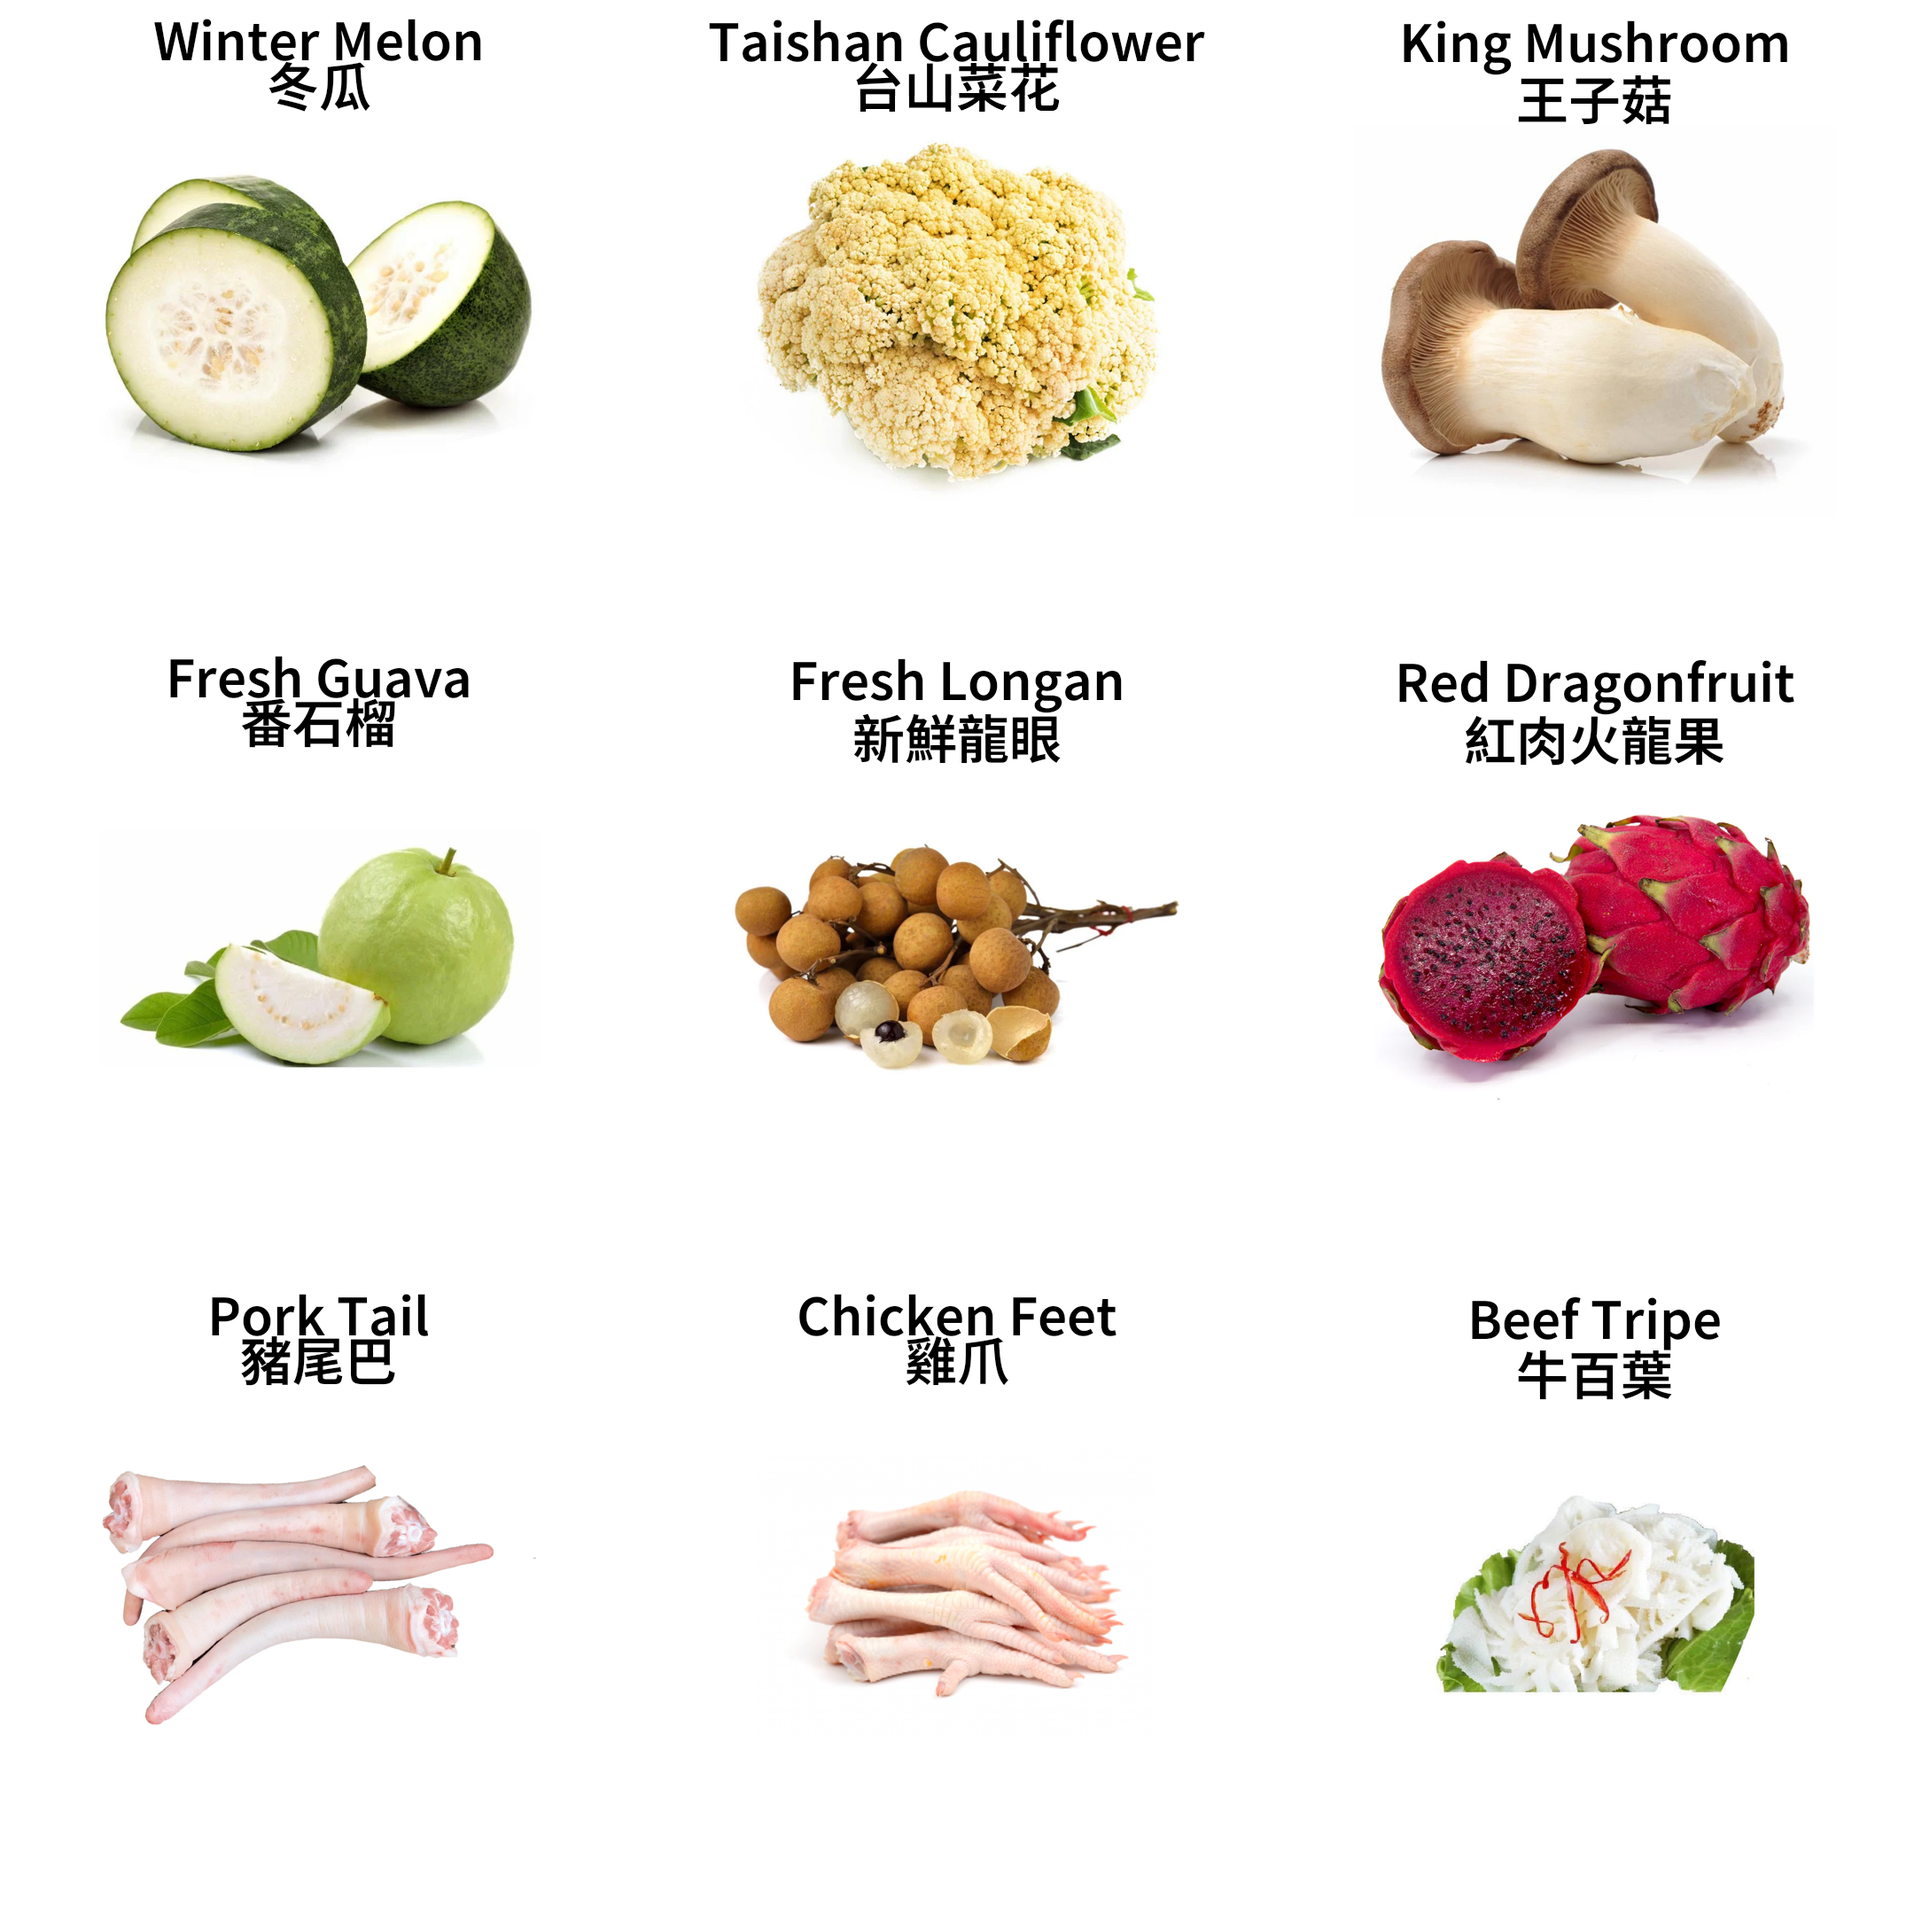
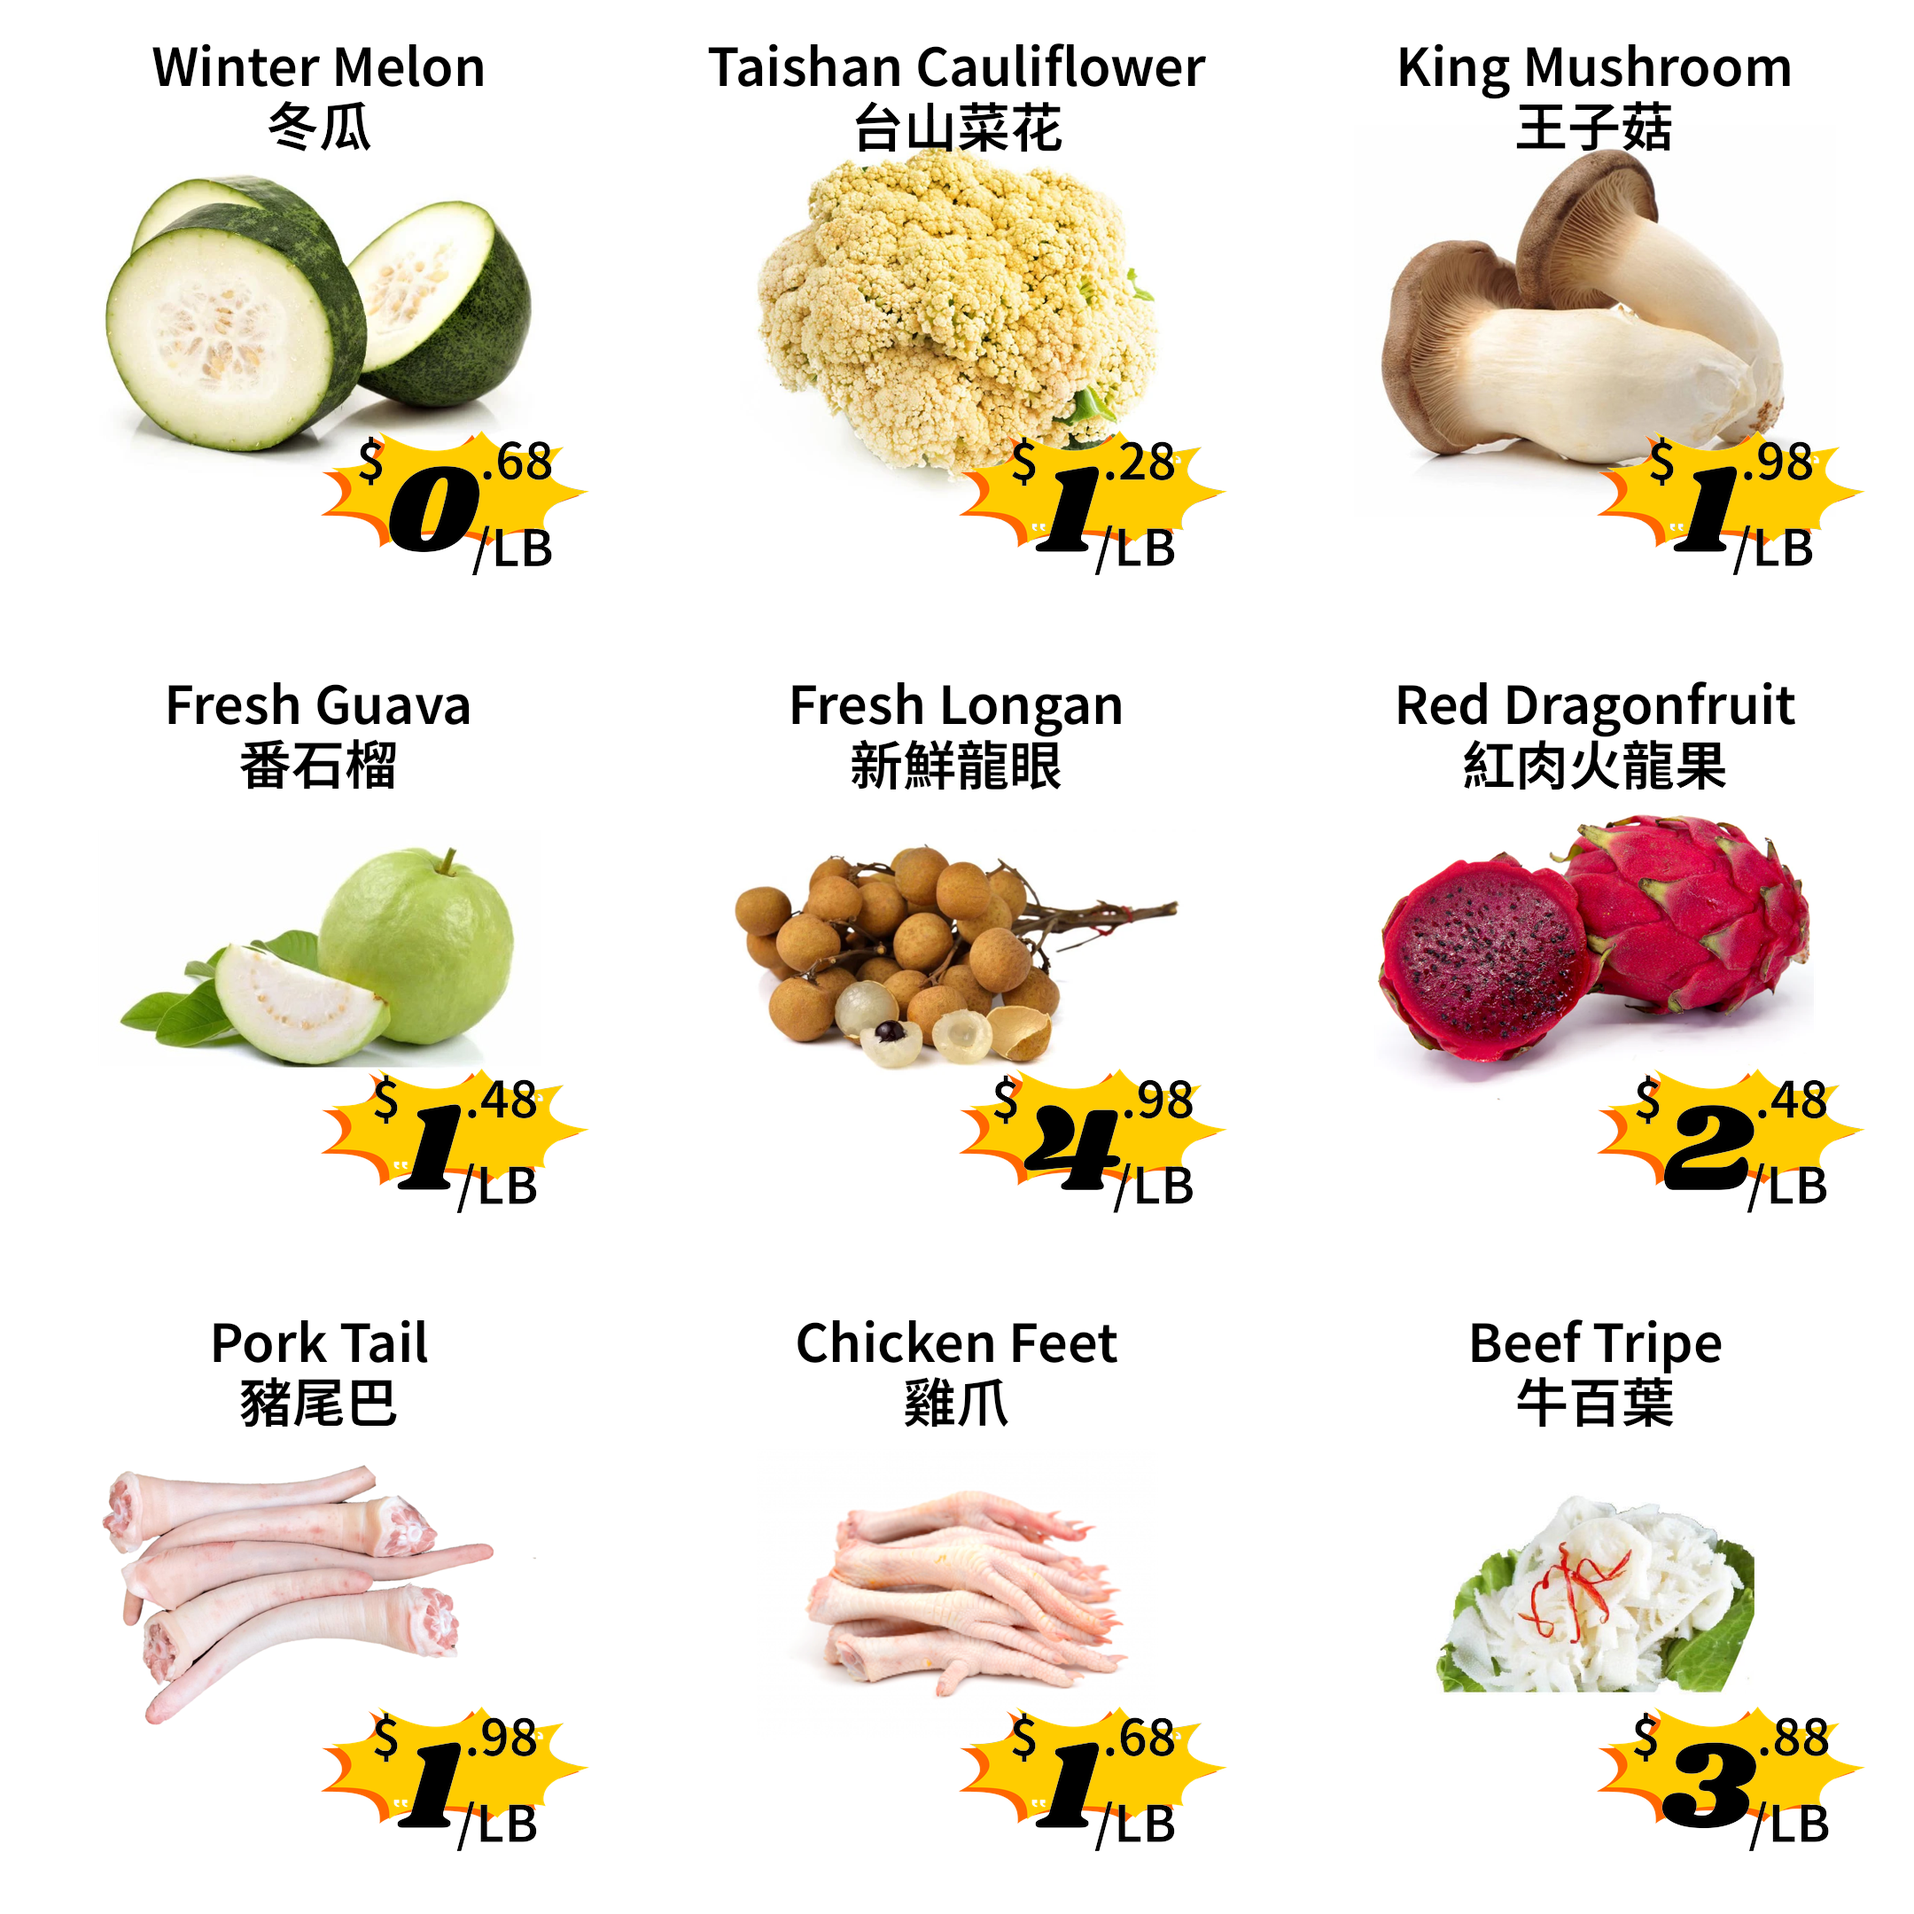
fixed spacing btwn stacked txt

diff --git a/goodsoup/core/image_utils.py b/goodsoup/core/image_utils.py
@@ -160,11 +160,19 @@ def render_price_to_image(price_text: str, box_size: tuple[int, int], fonts: dic
         x_dollar = x_super + super_w
         x_cents = x_dollar + dollar_w
 
-        y_super = y_price + (dollar_h - super_h)
-        draw.text((x_super, y_super), super_text, font=font_super, fill=(0, 0, 0, 255))
         draw.text((x_dollar, y_price), dollar_text, font=font_big, fill=(0, 0, 0, 255))
         if cents:
             draw.text((x_cents, y_price), cents_text, font=font_super, fill=(0, 0, 0, 255))
+            # Get Y top of where the cents would be drawn
+            cents_y_top = y_price
+            # Align the $ with the top of the cents
+            y_super = cents_y_top
+        else:
+            # No cents — align $ vertically with dollar
+            y_super = y_price + (dollar_h - super_h)
+
+        draw.text((x_super, y_super), super_text, font=font_super, fill=(0, 0, 0, 255))
+
 
     elif unit_match:
         dollars, cents, unit = unit_match.groups()
@@ -232,10 +240,14 @@ def render_price_to_image(price_text: str, box_size: tuple[int, int], fonts: dic
     return image
 
 def render_stacked_text(chinese_text, english_text, font_size):
-    # remove scaling
     font_cn = ImageFont.truetype(FONT_PATH_CN, font_size)
     font_en = ImageFont.truetype(FONT_PATH_EN, font_size - 1)
 
+    # Get font metrics for English text
+    ascent_en, descent_en = font_en.getmetrics()
+    line_height_en = ascent_en + descent_en
+
+    # Dummy image to measure widths (we won't use bbox heights)
     dummy_img = Image.new("RGBA", (1, 1))
     draw = ImageDraw.Draw(dummy_img)
 
@@ -243,28 +255,29 @@ def render_stacked_text(chinese_text, english_text, font_size):
     bbox_en = draw.textbbox((0, 0), english_text, font=font_en)
 
     w_cn = bbox_cn[2] - bbox_cn[0]
-    h_cn = bbox_cn[3] - bbox_cn[1]
     w_en = bbox_en[2] - bbox_en[0]
-    h_en = bbox_en[3] - bbox_en[1]
 
     total_width = max(w_cn, w_en)
-    total_height = h_cn + h_en
+    
+    # For Chinese, use textbbox height (Chinese has uniform metrics)
+    h_cn = bbox_cn[3] - bbox_cn[1]
+    total_height = line_height_en + h_cn
 
+    # Create canvas
     img = Image.new("RGBA", (total_width, total_height), (0, 0, 0, 0))
     draw = ImageDraw.Draw(img)
 
-    # English on top
+    # English top line, baseline at `ascent_en`
     x_en = (total_width - w_en) // 2 - bbox_en[0]
-    y_en = -bbox_en[1]
-
-    # Chinese below
-    x_cn = (total_width - w_cn) // 2 - bbox_cn[0]
-    y_cn = h_en - bbox_cn[1]
-
+    y_en = 0  # Top of image
     draw.text((x_en, y_en), english_text, font=font_en, fill=(0, 0, 0, 255))
+
+    # Chinese below, start at line_height_en
+    x_cn = (total_width - w_cn) // 2 - bbox_cn[0]
+    y_cn = line_height_en - bbox_cn[1]
     draw.text((x_cn, y_cn), chinese_text, font=font_cn, fill=(0, 0, 0, 255))
 
-    return img  # don't resize!
+    return img
 
 
 from PIL import Image, ImageDraw, ImageFilter

diff --git a/goodsoup/models/collage2.py b/goodsoup/models/collage2.py
@@ -139,6 +139,8 @@ class Collage:
             self.text_size()
             
             self.makepages()
+
+
     def makepages(self):
         num_pages = math.ceil(len(self.items_list) / self.items_pp)
     
@@ -165,7 +167,7 @@ class Collage:
                     with Image.open(PRICEBOX_PATH) as pb_img:
                         pricebox = pb_img.convert('RGBA').copy()
                         resized_pricebox = pricebox.resize(
-                            (self.rectw // 2, self.recth // 3),
+                            (int(self.rectw // 1.75), self.recth // 3),
                             resample=Image.LANCZOS
                         )
     
@@ -206,13 +208,19 @@ class Collage:
                     )
     
                     offset_x = (resized_pricebox.width - raw_price_image.width) // 2
-                    offset_y = (resized_pricebox.height - raw_price_image.height) // 2
+                    if raw_price_image.height <= resized_pricebox.height:
+                        # Center normally
+                        offset_y = (resized_pricebox.height - raw_price_image.height) // 2
+                    else:
+                        # Align to bottom
+                        offset_y = resized_pricebox.height - raw_price_image.height
+
                     resized_pricebox.paste(raw_price_image, (offset_x, offset_y), raw_price_image)
     
                     # paste pricebox
                     pricebox_x = rectangle.width - resized_pricebox.width - 1
                     pricebox_y = rectangle.height - resized_pricebox.height
-                    rectangle.paste(resized_pricebox, (pricebox_x, int(1.5* pricebox_y)), resized_pricebox)
+                    rectangle.paste(resized_pricebox, (pricebox_x, int(.9* pricebox_y)), resized_pricebox)
     
                     # stacked text
                     stacked_text_img = render_stacked_text(item.chinese_name, item.name, font_size=self.max_text_size)

diff --git a/goodsoup/core/no_gui_main.py b/goodsoup/core/no_gui_main.py
@@ -60,7 +60,6 @@ def u_choose_images(collage_inst,state):
         
 def make_n_save_graphic(collage):
     collage.generate_graphics()
-    collage.makepages()
     #print('plzzz so closeS')
     #grafic = collage.graphic
     #save_as = collage.name+'.pdf'
